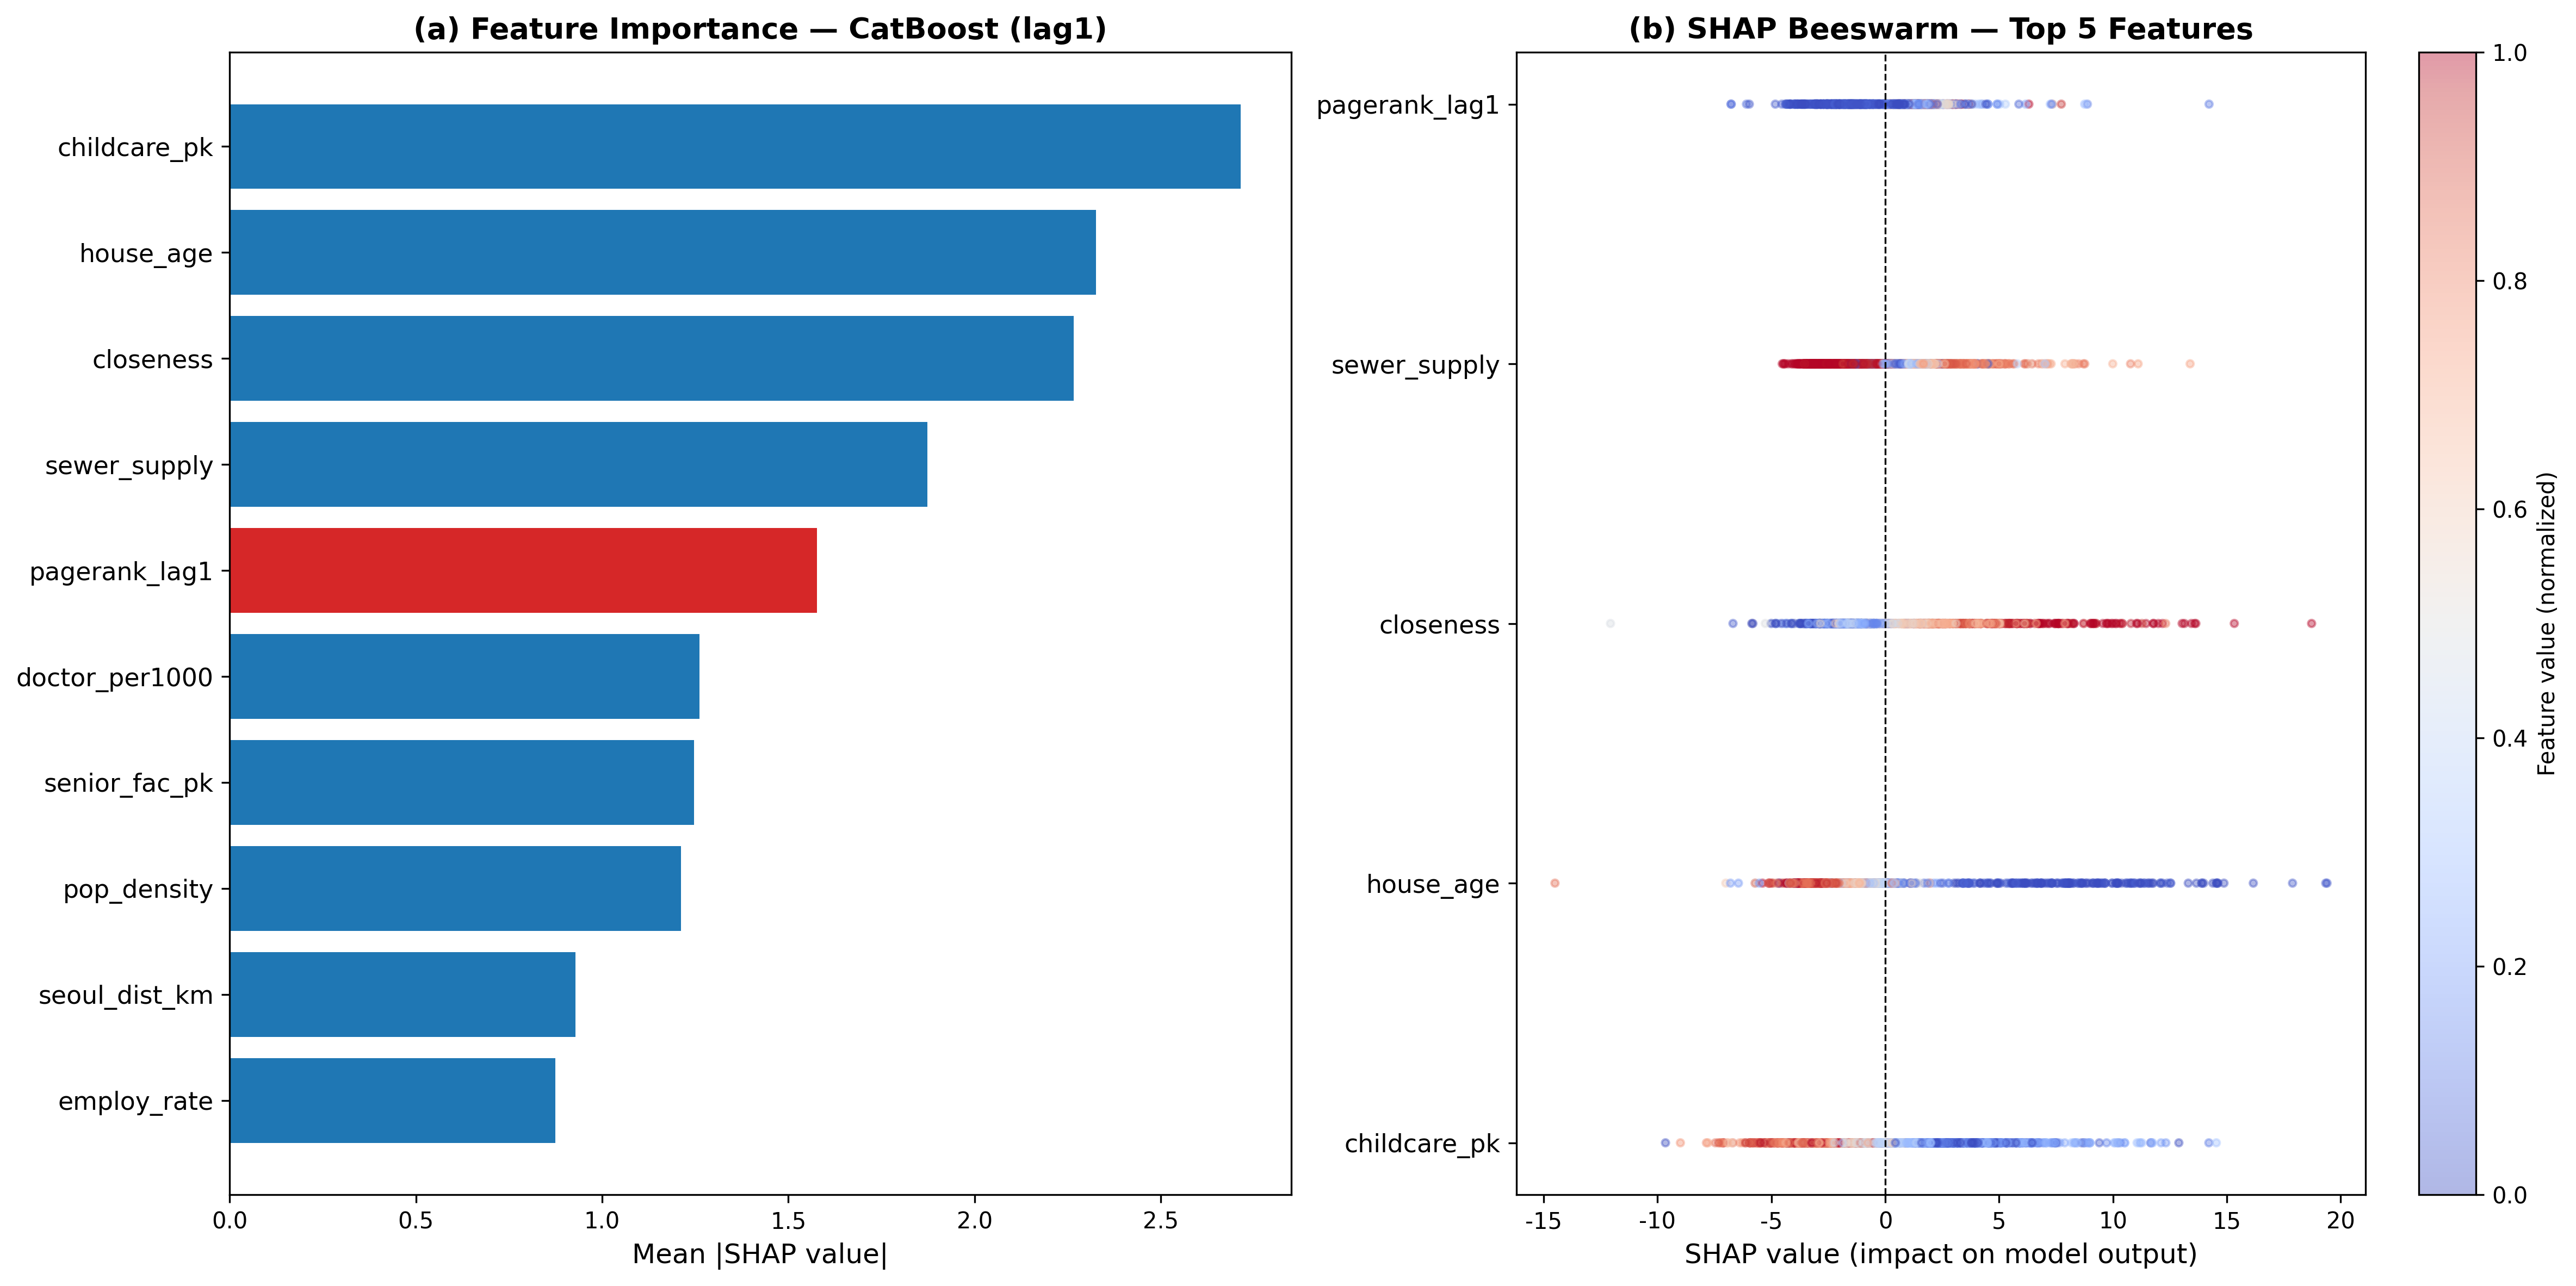
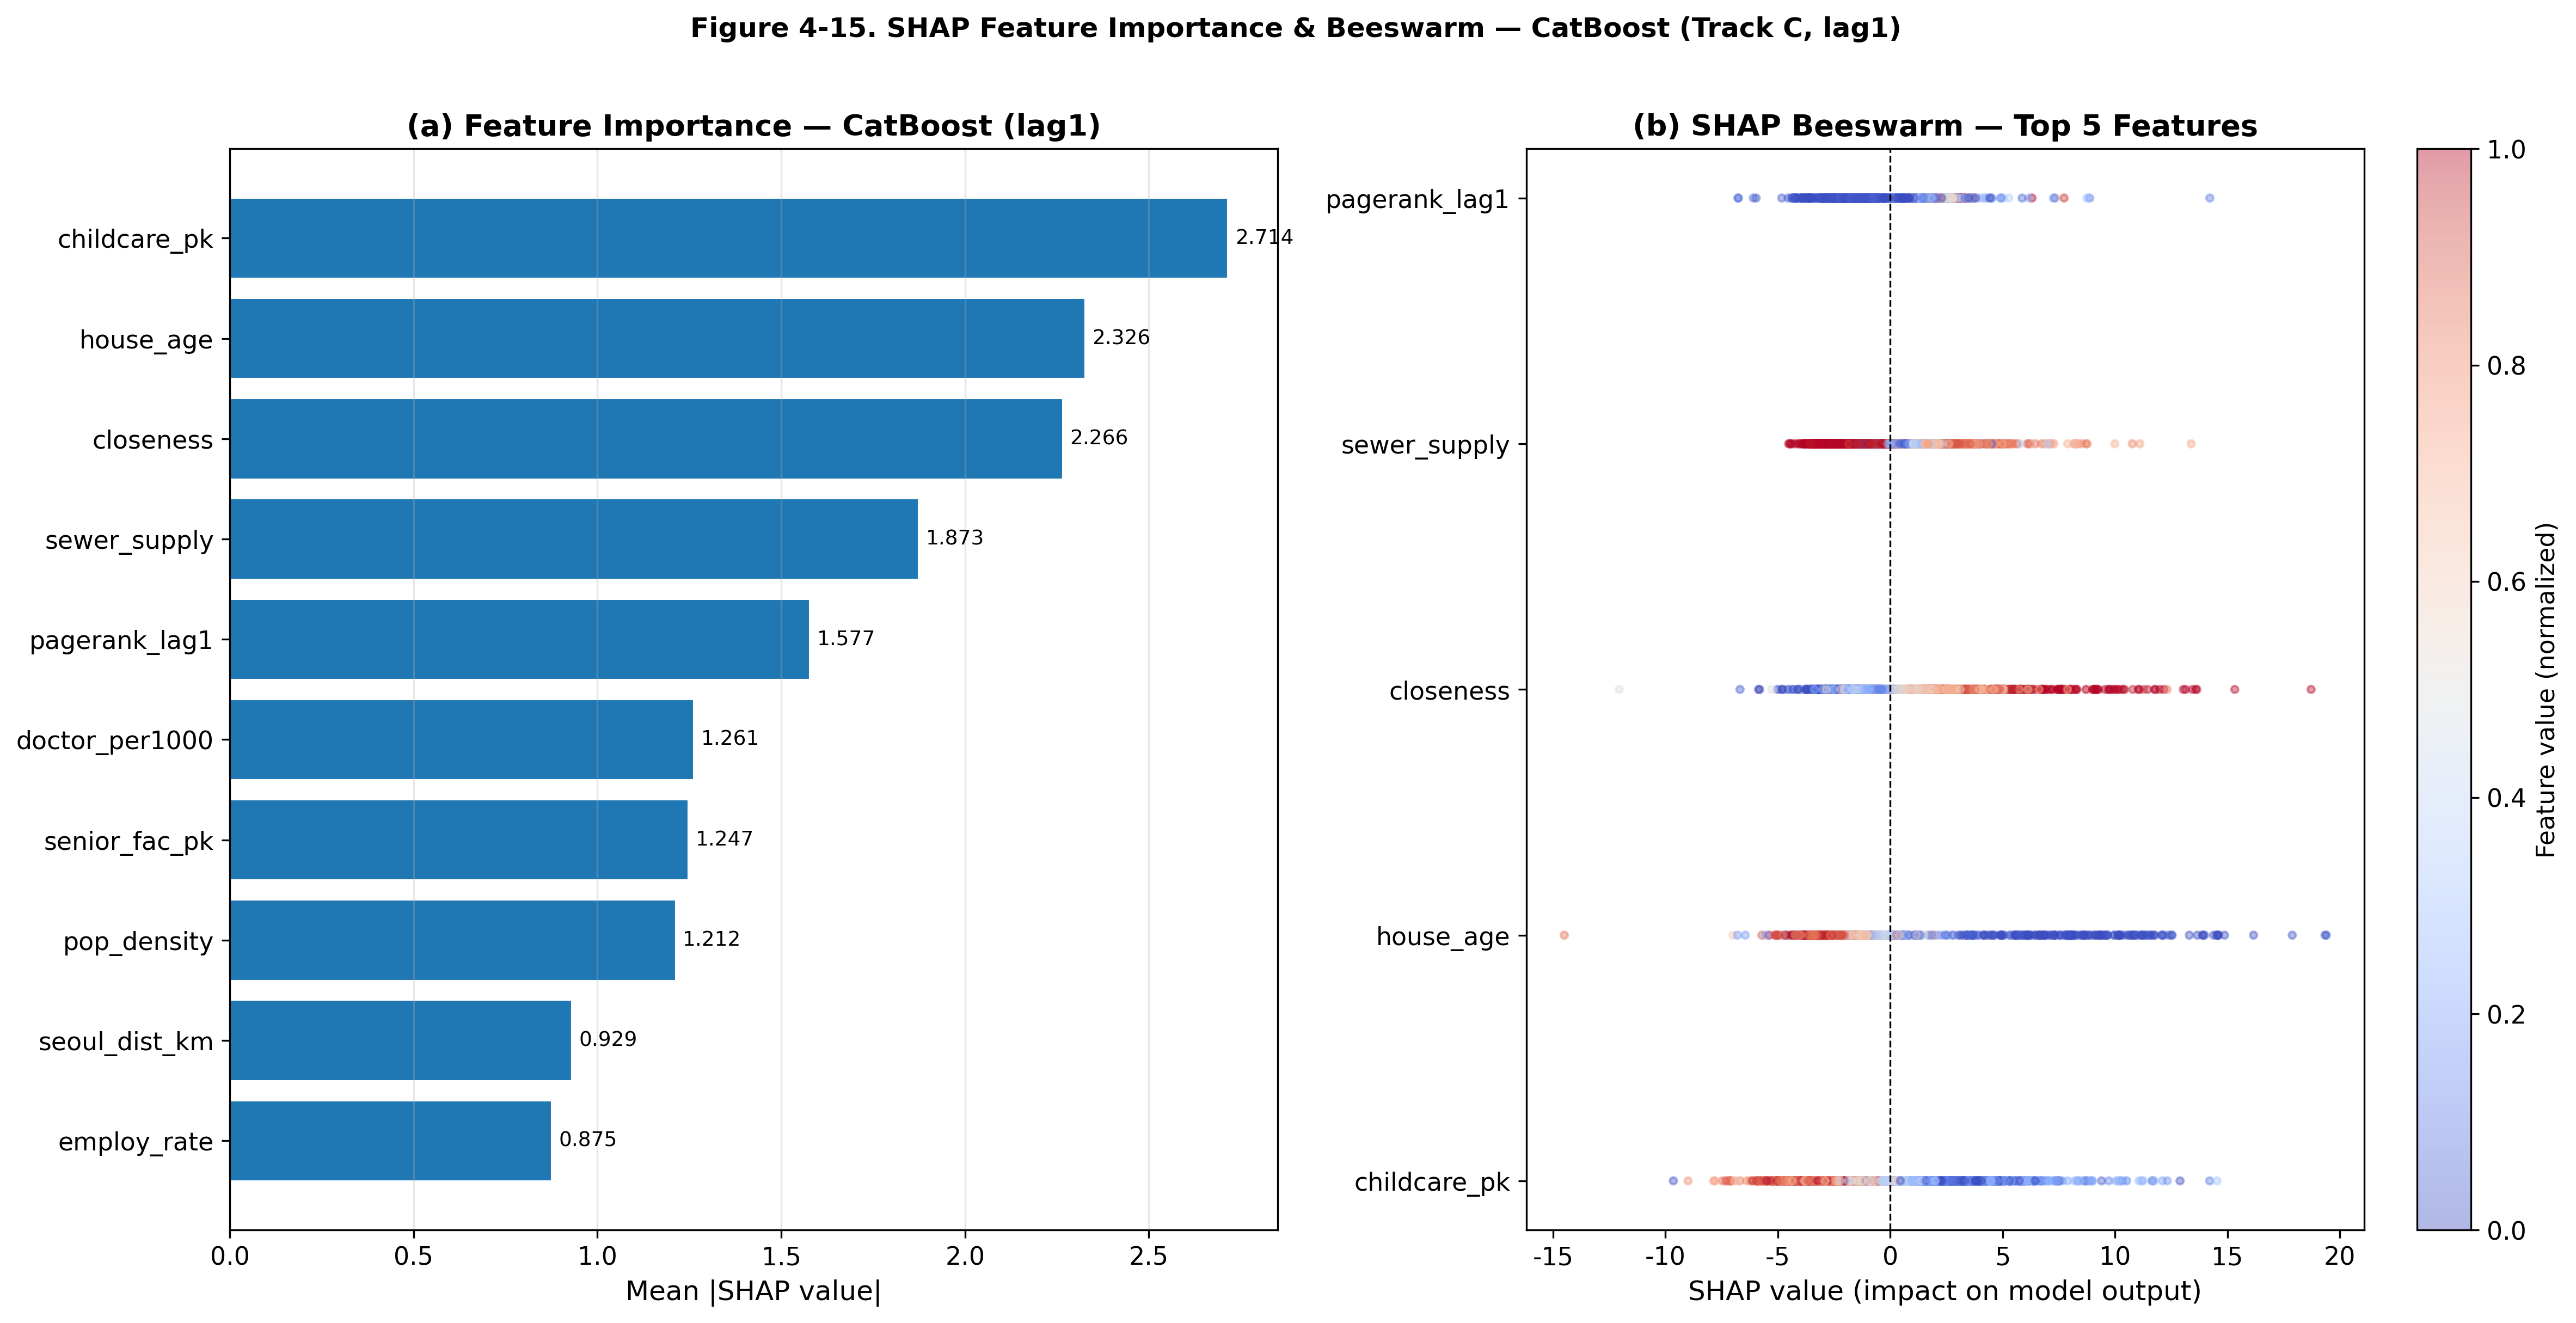
fix: Figure 4-14/15 수정 - SHAP pagerank 하이라이트 제거 + 파일명 URL 통일
- Figure 4-15 (SHAP Feature Importance): pagerank_lag1 단독 빨간색 제거
  → 모든 막대 단일 색상(#1f77b4) 통일, 수치 레이블 추가
- Figure 4-14 (ML 성능 비교): fig4_14_ml_performance_comparison.png 파일 추가 생성
  (기존 fig4_14_ml_performance.png와 동일 내용, URL 호환용)
- docs/04_연구결과_Results.md: Figure 4-14 이미지 URL 수정
  (fig4_14_ml_performance_comparison.png → fig4_14_ml_performance.png)

diff --git a/scripts/regen_fig4_14_15.py b/scripts/regen_fig4_14_15.py
@@ -1,0 +1,196 @@
+"""
+Figure 4-14 (ML 성능 비교) + Figure 4-15 (SHAP Feature Importance) 재생성
+- Figure 4-14: CatBoost 빨간색 강조 유지 (최적 모형 표시), 파일명 통일
+- Figure 4-15: pagerank_lag1 단독 빨간색 제거 → 모든 막대 단일 색상(#1f77b4) 통일
+"""
+
+import pandas as pd
+import numpy as np
+import shap
+import json
+import os
+import warnings
+import joblib
+import matplotlib
+matplotlib.use('Agg')
+import matplotlib.pyplot as plt
+import matplotlib.font_manager as fm
+
+warnings.filterwarnings('ignore')
+
+# ── 폰트 설정 ─────────────────────────────────────────────────
+plt.rcParams['font.family'] = 'DejaVu Sans'
+plt.rcParams['axes.unicode_minus'] = False
+plt.rcParams['font.size'] = 11
+
+FIGDIR = '/home/ubuntu/korea-migration-network/results/figures'
+TABDIR = '/home/ubuntu/korea-migration-network/results/tables'
+
+# ── 1. 데이터 및 모형 로드 ────────────────────────────────────
+df = pd.read_csv('/home/ubuntu/korea-migration-network/data/analysis_dataset_FINAL_v4.csv')
+df = df.sort_values(['region_code', 'year']).reset_index(drop=True)
+df['pagerank_lag1'] = df.groupby('region_code')['pagerank'].shift(1)
+
+with open(f'{TABDIR}/feature_cols.json') as f:
+    FEATS = json.load(f)
+with open(f'{TABDIR}/best_model_name.txt') as f:
+    best_model_name = f.read().strip()
+
+model = joblib.load(f'{TABDIR}/best_model.joblib')
+print(f"최적 모형: {best_model_name}")
+print(f"피처 수: {len(FEATS)}")
+
+# ── 2. 분석 데이터 준비 ───────────────────────────────────────
+d = df[(df['year'] >= 2017) & (df['year'] <= 2024)].dropna(subset=['net_rate']).copy()
+for c in FEATS:
+    d[c] = d.groupby('year')[c].transform(lambda s: s.fillna(s.median()))
+    d[c] = d[c].fillna(d[c].median())
+
+X_all = d[FEATS].values
+
+# ── 3. SHAP 계산 ──────────────────────────────────────────────
+print("SHAP 계산 중...")
+explainer = shap.TreeExplainer(model)
+shap_values = explainer.shap_values(X_all)
+
+mean_abs_shap = np.abs(shap_values).mean(axis=0)
+shap_df = pd.DataFrame({
+    'feature': FEATS,
+    'mean_abs_shap': mean_abs_shap
+}).sort_values('mean_abs_shap', ascending=False).reset_index(drop=True)
+
+print("\nTop 10 SHAP 중요도:")
+print(shap_df.head(10).to_string(index=False))
+
+# ═══════════════════════════════════════════════════════════════
+# Figure 4-15: SHAP Feature Importance (단일 색상 통일)
+# ═══════════════════════════════════════════════════════════════
+print("\nFigure 4-15 재생성 중 (pagerank 하이라이트 제거)...")
+
+fig, axes = plt.subplots(1, 2, figsize=(16, 8))
+
+# (a) Bar plot — 모든 막대 단일 색상 (#1f77b4)
+top10 = shap_df.head(10)
+SINGLE_BLUE = '#1f77b4'
+colors_uniform = [SINGLE_BLUE] * 10
+
+axes[0].barh(range(10), top10['mean_abs_shap'].values[::-1],
+             color=colors_uniform, edgecolor='white', linewidth=0.5)
+axes[0].set_yticks(range(10))
+axes[0].set_yticklabels(top10['feature'].values[::-1], fontsize=11)
+axes[0].set_xlabel('Mean |SHAP value|', fontsize=12)
+axes[0].set_title(f'(a) Feature Importance — {best_model_name} (lag1)',
+                  fontsize=13, fontweight='bold')
+axes[0].axvline(x=0, color='black', linewidth=0.5)
+axes[0].grid(axis='x', alpha=0.3)
+
+# 값 레이블 추가
+for i, val in enumerate(top10['mean_abs_shap'].values[::-1]):
+    axes[0].text(val + 0.02, i, f'{val:.3f}', va='center', fontsize=9)
+
+# (b) Beeswarm scatter (Top 5)
+top5_feats = shap_df.head(5)['feature'].tolist()
+feat_idx = [FEATS.index(f) for f in top5_feats]
+
+for i, (fi, fname) in enumerate(zip(feat_idx, top5_feats)):
+    feat_vals = X_all[:, fi]
+    shap_vals = shap_values[:, fi]
+    vmin, vmax = np.percentile(feat_vals, [5, 95])
+    norm_vals = np.clip((feat_vals - vmin) / (vmax - vmin + 1e-8), 0, 1)
+    sc = axes[1].scatter(shap_vals, [i] * len(shap_vals),
+                         c=norm_vals, cmap='coolwarm', alpha=0.4, s=10)
+
+axes[1].set_yticks(range(5))
+axes[1].set_yticklabels(top5_feats, fontsize=11)
+axes[1].set_xlabel('SHAP value (impact on model output)', fontsize=12)
+axes[1].set_title('(b) SHAP Beeswarm — Top 5 Features',
+                  fontsize=13, fontweight='bold')
+axes[1].axvline(x=0, color='black', linewidth=0.8, linestyle='--')
+plt.colorbar(sc, ax=axes[1], label='Feature value (normalized)')
+
+plt.suptitle(f'Figure 4-15. SHAP Feature Importance & Beeswarm — {best_model_name} (Track C, lag1)',
+             fontsize=12, fontweight='bold', y=1.01)
+plt.tight_layout()
+fig.savefig(f'{FIGDIR}/fig4_15_shap_summary.png', dpi=300, bbox_inches='tight', facecolor='white')
+plt.close()
+print(f"Figure 4-15 저장: {FIGDIR}/fig4_15_shap_summary.png")
+
+# ═══════════════════════════════════════════════════════════════
+# Figure 4-14: ML 성능 비교 (CatBoost 빨간색 유지, 파일명 통일)
+# ═══════════════════════════════════════════════════════════════
+print("\nFigure 4-14 재생성 중...")
+
+perf_path = f'{TABDIR}/table4_16_ml_performance.csv'
+if not os.path.exists(perf_path):
+    # 대체 경로 탐색
+    for alt in [f'{TABDIR}/table4_16_ml_performance_trackC.csv',
+                f'{TABDIR}/table_ml_performance.csv']:
+        if os.path.exists(alt):
+            perf_path = alt
+            break
+
+perf_df = pd.read_csv(perf_path)
+print(f"성능 데이터 로드: {perf_path}")
+print(perf_df.to_string(index=False))
+
+# 컬럼명 정규화
+col_map = {}
+for c in perf_df.columns:
+    cl = c.lower()
+    if 'model' in cl:
+        col_map[c] = 'model'
+    elif 'test_r2' in cl or 'test r2' in cl:
+        col_map[c] = 'Test_R2'
+    elif 'test_rmse' in cl or 'test rmse' in cl:
+        col_map[c] = 'Test_RMSE'
+    elif 'test_mae' in cl or 'test mae' in cl:
+        col_map[c] = 'Test_MAE'
+perf_df = perf_df.rename(columns=col_map)
+
+# 필요 컬럼 확인
+required = ['model', 'Test_R2', 'Test_RMSE', 'Test_MAE']
+for r in required:
+    if r not in perf_df.columns:
+        print(f"WARNING: column '{r}' not found. Available: {perf_df.columns.tolist()}")
+
+colors_bar = ['#d62728' if str(m) == best_model_name else '#1f77b4'
+              for m in perf_df['model']]
+
+fig, axes = plt.subplots(1, 3, figsize=(15, 5))
+metrics = [('Test_R2', 'Test R²'), ('Test_RMSE', 'Test RMSE'), ('Test_MAE', 'Test MAE')]
+
+for ax, (col, label) in zip(axes, metrics):
+    if col not in perf_df.columns:
+        ax.set_title(f'{label} (data unavailable)')
+        continue
+    vals = perf_df[col].values
+    bars = ax.bar(perf_df['model'], vals, color=colors_bar,
+                  edgecolor='white', linewidth=0.5)
+    ax.set_title(label, fontsize=13, fontweight='bold')
+    ax.set_xlabel('Model', fontsize=11)
+    ax.tick_params(axis='x', rotation=30)
+    ax.grid(axis='y', alpha=0.3)
+    for bar, val in zip(bars, vals):
+        offset = 0.005 * max(abs(vals.max()), abs(vals.min()), 0.01)
+        ax.text(bar.get_x() + bar.get_width() / 2,
+                bar.get_height() + offset,
+                f'{val:.3f}', ha='center', va='bottom', fontsize=9)
+    if col == 'Test_R2':
+        ax.axhline(y=0, color='black', linewidth=0.8, linestyle='--')
+
+plt.suptitle(
+    f'Figure 4-14. ML Model Performance Comparison (lag1, Hold-out Test 2023–2024)\n'
+    f'Red bar = {best_model_name} (best model)',
+    fontsize=12, fontweight='bold'
+)
+plt.tight_layout()
+
+# 두 파일명 모두 저장 (문서 링크 호환)
+fig.savefig(f'{FIGDIR}/fig4_14_ml_performance.png',
+            dpi=300, bbox_inches='tight', facecolor='white')
+fig.savefig(f'{FIGDIR}/fig4_14_ml_performance_comparison.png',
+            dpi=300, bbox_inches='tight', facecolor='white')
+plt.close()
+print(f"Figure 4-14 저장 완료 (두 파일명 모두 저장)")
+
+print("\n=== 재생성 완료 ===")

diff --git a/docs/04_연구결과_Results.md b/docs/04_연구결과_Results.md
@@ -515,7 +515,7 @@ SDM 추정 결과, 공간 자기회귀 계수($\rho$)는 -0.0696으로 통계적
 
 분석 결과(Table 4-17 및 4-17b), **보육시설(childcare_pk)**과 **노후주택비율(house_age)**이 각각 1위와 2위를 차지하였다. 이는 주거 환경의 물리적 쾌적성과 보육 등 생활 인프라가 인구 유입에 미치는 영향이 매우 크게 작동함을 의미한다. 이어 근접 중심성(closeness, 2.002)이 3위를 기록하여 네트워크 접근성의 중요성을 입증하였다. 반면 고용률, 사업체수 등 전통적인 경제 변수들은 중하위권에 머물러, 최근의 인구이동이 단순한 경제적 기회보다는 정주 여건(주거·보육·의료)과 네트워크 접근성 등 **영역 수준(Domain-level)의 복합적 요인** 중심으로 재편되고 있음을 시사한다. 한편, 선형 패널모형(FE)과 공간더빈모형(SDM)에서 인과적 핵심 앵커(직접효과 3,119***)로 확인되었던 PageRank 중심성(pagerank_lag1)은 비선형 SHAP 분석에서는 8위(1.215)로 중위권에 위치하였다. 이는 허브 지위의 영향력이 비선형 트리 구조에서는 타 정주 변수들과 교란되거나 비선형적으로 분산됨을 의미하며, 결정요인 해석 시 특정 단일 변수의 순위보다는 정주 여건과 네트워크 지위를 포괄하는 영역 수준의 접근이 타당함을 방증한다.
 
-![Figure 4-14. ML 성능 비교](https://raw.githubusercontent.com/dongwoo2022008/korea-migration-network/main/results/figures/fig4_14_ml_performance_comparison.png)
+![Figure 4-14. ML 성능 비교](https://raw.githubusercontent.com/dongwoo2022008/korea-migration-network/main/results/figures/fig4_14_ml_performance.png)
 
 **Figure 4-14**는 7개 머신러닝 모형의 Validation(2023) 및 Test(2024) 성능(R² 및 RMSE)을 비교한 차트이다. 트리 앙상블 계열 모형들이 선형 모형(LR) 대비 압도적으로 우수한 예측력을 보이고 있음을 시각적으로 확인할 수 있다.
 